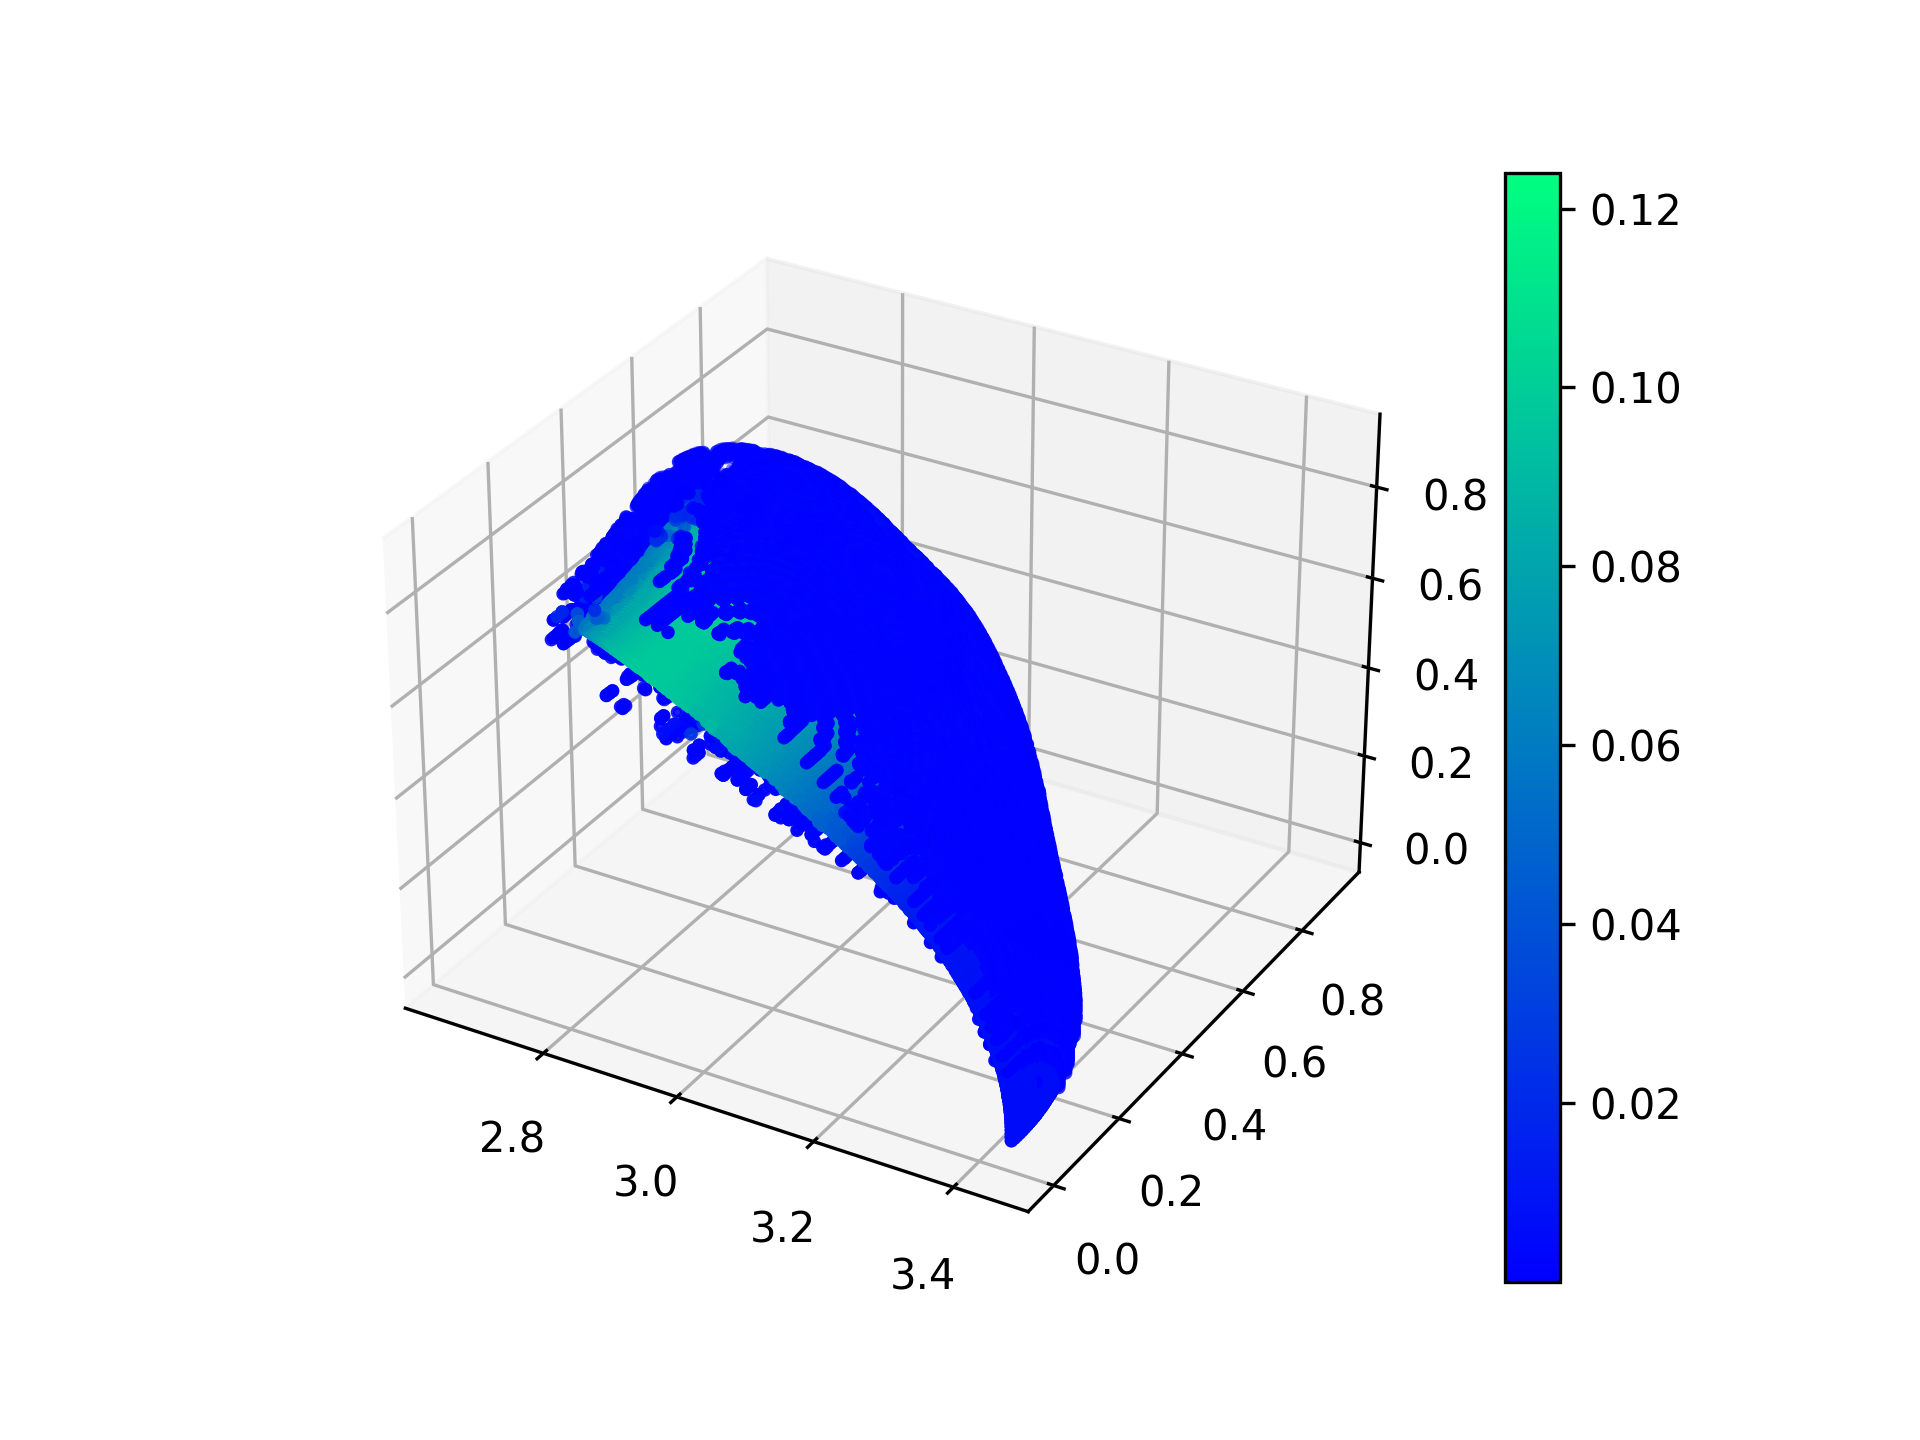
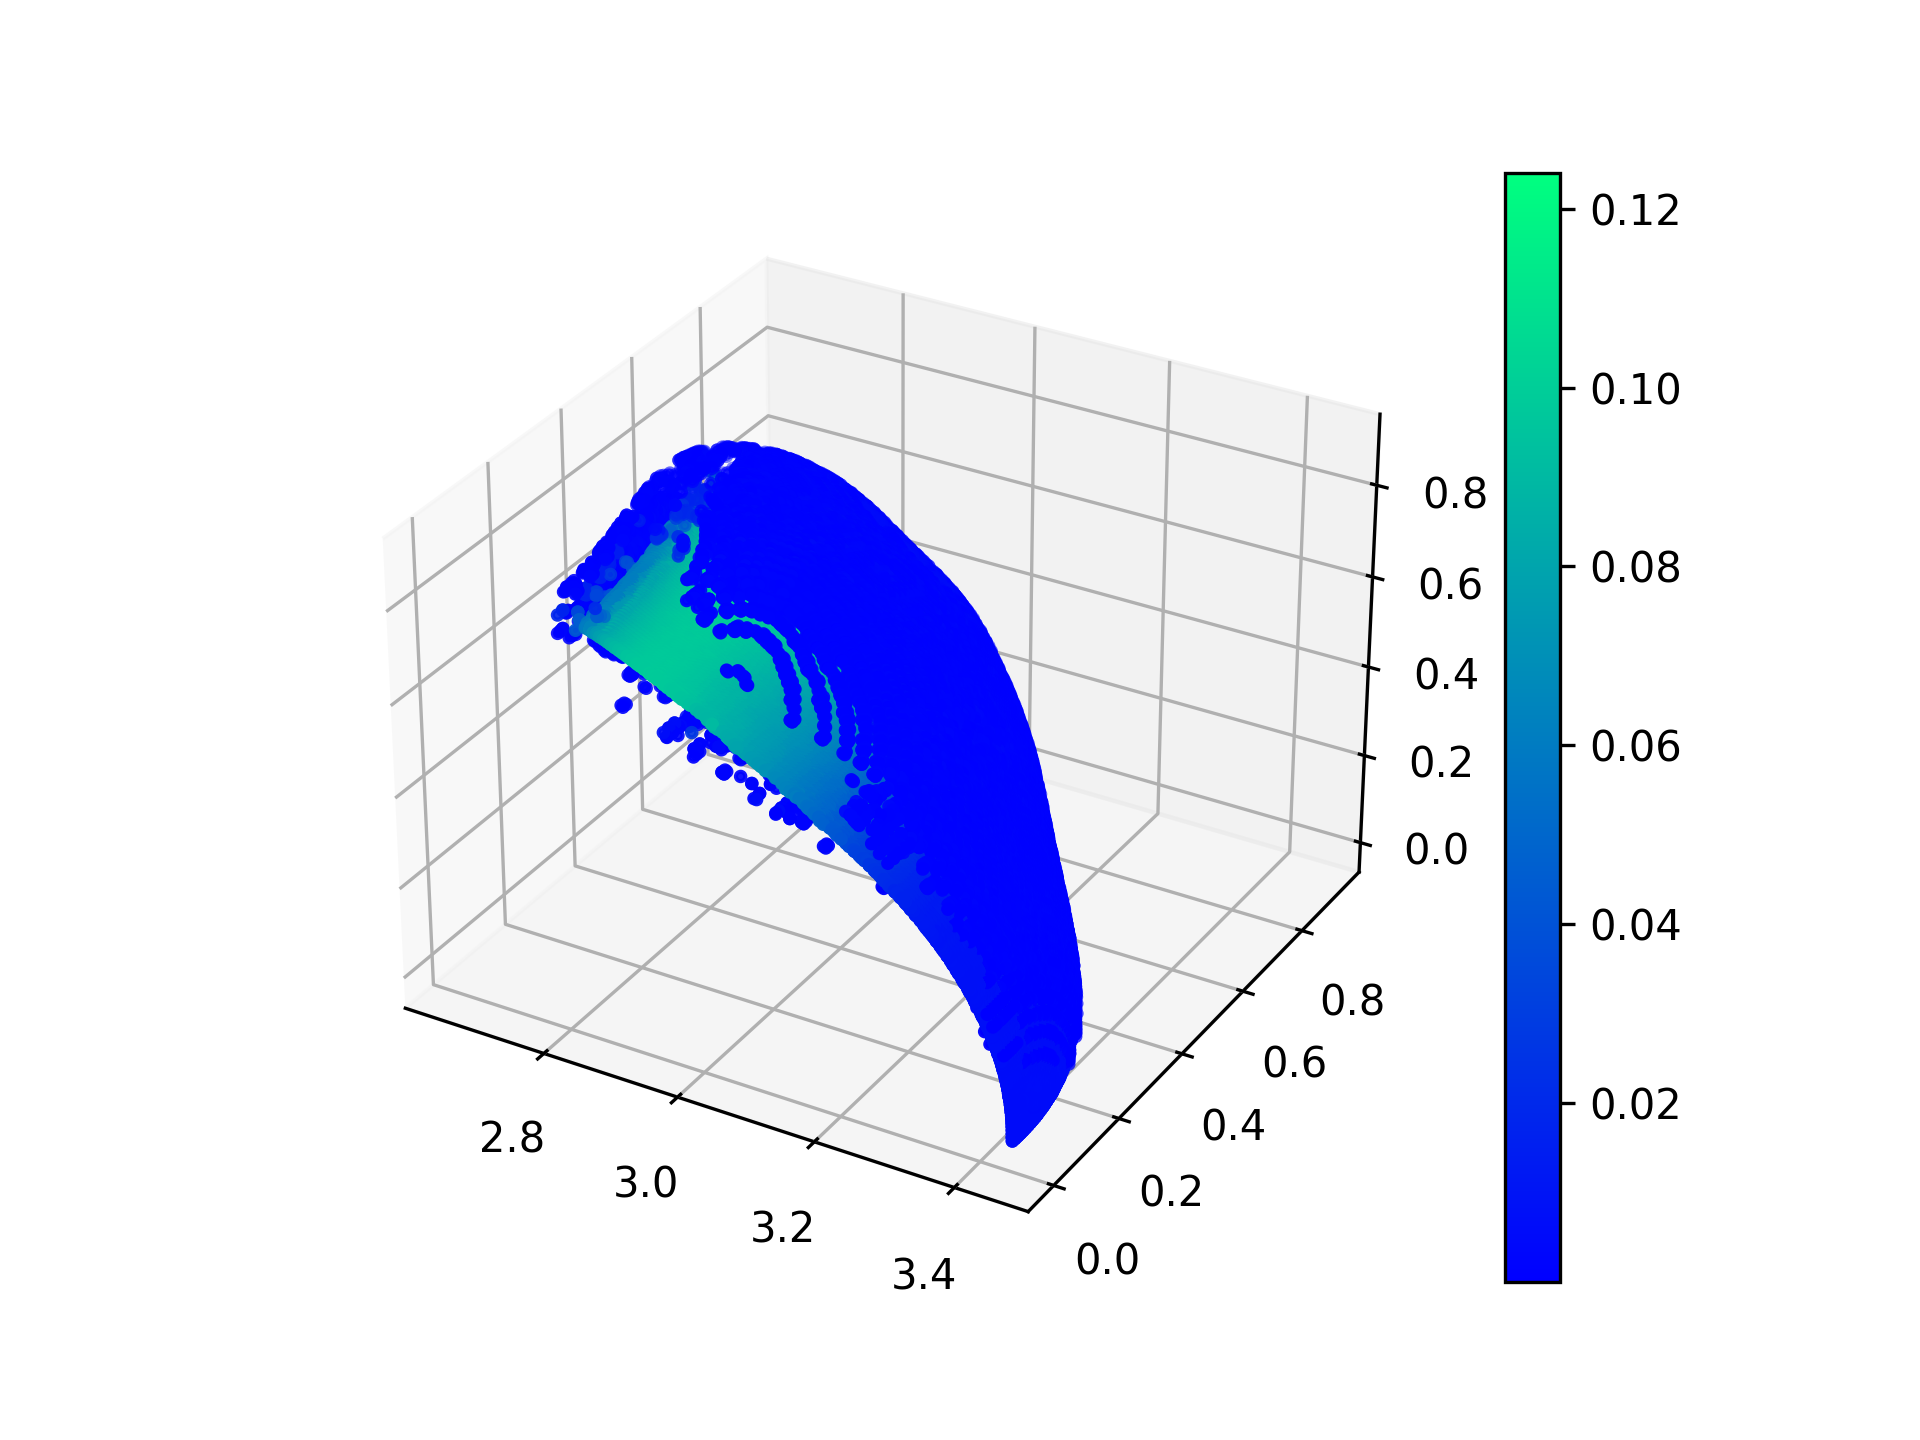
run7 updates

diff --git a/DataStructures.py b/DataStructures.py
@@ -572,19 +572,38 @@ class kdTree:
                 #        retdev = retdevl
                 #else:
                 if retdevr[0] > 0.9 and retdevl[0] > 0.9:
-                    if np.abs(dr-dl) > data[2]*10:
+                    if dr < data[2] and dl < data[2]:
+                        if dr > dl and retdevr[0] > retdevl[0]:
+                            retpts = retptsr
+                            retdev = retdevr
+                        elif dl > dr and retdevl[0] > retdevr[0]:
+                            retpts = retptsl
+                            retdev = retdevl
+                        else:
+                            #Here, Both are pretty close to on par with normal, but none is a decisive winner.
+                            #So we choose off of retdev for maximazation, and theyre very close anyways
+                            if retdevr[0] > retdevl[0]:
+                                retpts = retptsr
+                                retdev = retdevr
+                            else:
+                                retpts = retptsl
+                                retdev = retdevl
+                                
+                    elif dr > data[2] and dl > data[2]:
                         if dr < dl:
                             retpts = retptsr
                             retdev = retdevr
                         else:
                             retpts = retptsl
                             retdev = retdevl
-                    elif dr > dl:
-                        retpts = retptsr
-                        retdev = retdevr
                     else:
-                        retpts = retptsl
-                        retdev = retdevl
+                        #This should be the part to switch if next run doesnt work.
+                        if dr > dl:
+                            retpts = retptsr
+                            retdev = retdevr
+                        else:
+                            retpts = retptsl
+                            retdev = retdevl
                 else:
                     if retdevr[0] > retdevl[0]:
                         retpts = retptsr
@@ -674,13 +693,23 @@ class kdTree:
                 #        retdev = [dev]
                 #else:
                 if dev > 0.9 and retdev[0] > 0.9:
-                    if np.abs(dn-dl) > data[2] * 10:
+                    if dn < data[2] and dl < data[2]:
+                        if dn > dl and dev > retdev[0]:
+                            retpts = [node]
+                            retdev = [dev]
+                        else:
+                            if dev > retdev[0]:
+                                retpts = [node]
+                                retdev = [dev]
+                    elif dn > data[2] and dl > data[2]:
                         if dn < dl:
                             retpts = [node]
                             retdev = [dev]
-                    elif dn > dl:
-                        retpts = [node]
-                        retdev = [dev]
+                    else:
+                        if dn > dl:
+                            retpts = [node]
+                            retdev = [dev]
+                
                 else:
                     if dev > retdev[0]:
                         retpts = [node]
